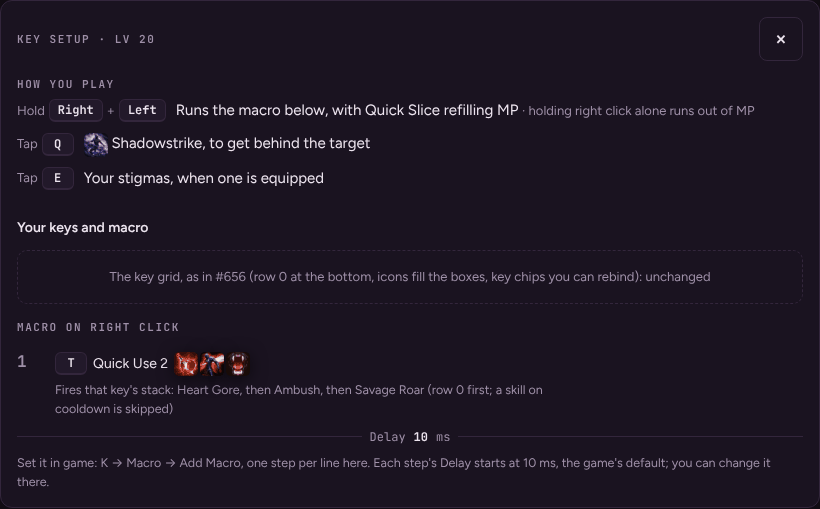
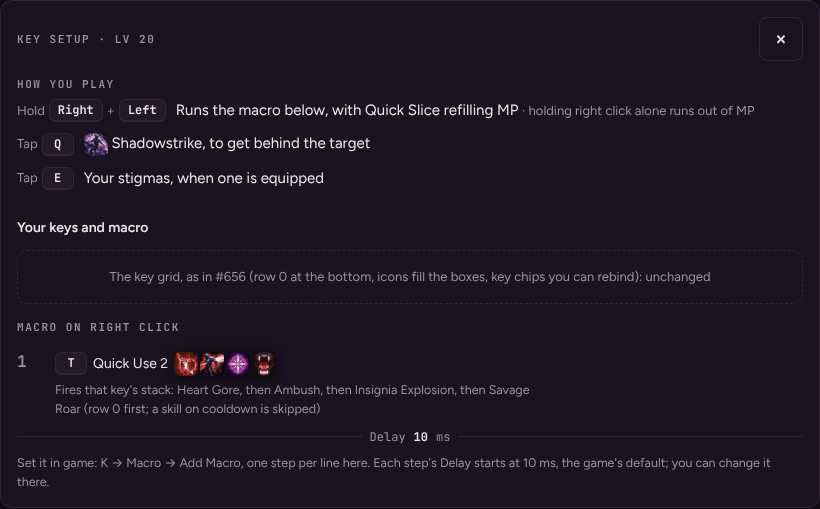
0.9 keys-macro: Lv 20 macro step includes Insignia Explosion (Lv 14 row); Gladiator example names Keen Strike
Review on #839: the Assassin's right-click stack at Lv 20 is the minLv 14 row (Heart Gore,
Ambush, Insignia Explosion, Savage Roar); the default-keys example named the Assassin's
Quick Slice for the Gladiator, whose left click is Keen Strike (defaultKeys). Frames re-shot.

Claude-Session: https://claude.ai/code/session_01K8AEp1D6fnpHKSP7HbTKan

diff --git a/docs/design/0.9-keys/macro/play-macro.html b/docs/design/0.9-keys/macro/play-macro.html
@@ -9,7 +9,7 @@
   <div class="km-grid">The key grid, as in #656 (row 0 at the bottom, icons fill the boxes, key chips you can rebind): unchanged</div>
   <h3 style="margin-top:var(--space-16)">Macro on right click</h3>
   <ol class="km-steps">
-   <li class="km-step"><span class="n">1</span><div><div class="t"><span class="kcap">T</span> Quick Use 2 <span class="icos"><img src="assets/icons/sk-heart-gore.png" alt=""><img src="assets/icons/sk-ambush.png" alt=""><img src="assets/icons/sk-savage-roar.png" alt=""></span></div><div class="sub">Fires that key's stack: Heart Gore, then Ambush, then Savage Roar (row 0 first; a skill on cooldown is skipped)</div></div></li>
+   <li class="km-step"><span class="n">1</span><div><div class="t"><span class="kcap">T</span> Quick Use 2 <span class="icos"><img src="assets/icons/sk-heart-gore.png" alt=""><img src="assets/icons/sk-ambush.png" alt=""><img src="assets/icons/sk-insignia-explosion.png" alt=""><img src="assets/icons/sk-savage-roar.png" alt=""></span></div><div class="sub">Fires that key's stack: Heart Gore, then Ambush, then Insignia Explosion, then Savage Roar (row 0 first; a skill on cooldown is skipped)</div></div></li>
    <li class="km-delay">Delay <b>10</b> ms</li>
   </ol>
   <p class="km-note">Set it in game: K → Macro → Add Macro, one step per line here. Each step's Delay starts at 10 ms, the game's default; you can change it there.</p>

diff --git a/docs/design/0.9-keys-macro.md b/docs/design/0.9-keys-macro.md
@@ -32,8 +32,8 @@ The owner asked for a simple layout (hold left / right click plus Q / E / R / F)
   skill sit on. That follows the owner's own rule that the skill bar matches the game exactly (beta B4), so it isn't a
   question for him. If he wants a word on it, P22's shots go to him anyway.
 - **A class with only default keys** (no guide build yet, such as the Gladiator in `12-sheet-gladiator-*`): the block lists
-  the default keys' row 0 skills the same way. With no macro in the data, the Hold line reads "Hold `Left`: Quick
-  Slice" (the class's left-click skill). No line is drawn for something the data doesn't have.
+  the default keys' row 0 skills the same way. With no macro in the data, the Hold line names the class's own left-click skill, for
+  example "Hold `Left`: Keen Strike" for the Gladiator (its `defaultKeys`). No line is drawn for something the data doesn't have.
 - **Phone:** each line stacks, keys first and the words under them (`22-play-macro-390`).
 
 ## 2. The macro as steps
@@ -48,7 +48,7 @@ each step has its own Delay, and stepping through two or more keys cycles more t
 - **One row per step, numbered as in the game's Macro window** (`22-macro-steps-*`):
   - A key step: the key chip, the quickslot's name ("Quick Use 2", as the game labels it), that stack's icons in fire
     order (row 0 first), and "Fires that key's stack, row 0 first". With a single step, the sub-line names the skills
-    instead ("Heart Gore, then Ambush, then Savage Roar").
+    instead ("Heart Gore, then Ambush, then Insignia Explosion, then Savage Roar": the Lv 14 row, so at Lv 20).
   - A single-skill step: the icon and name with "· one skill". Only where the data has one (fact 5).
 - **Delay:** under each step, a divider line reading "Delay **10** ms", drawn like the game's own. It's the value the
   player edits in game (fact 12). 10 ms may be called the game's default (fact 12a, T-123). The app shows the value and
